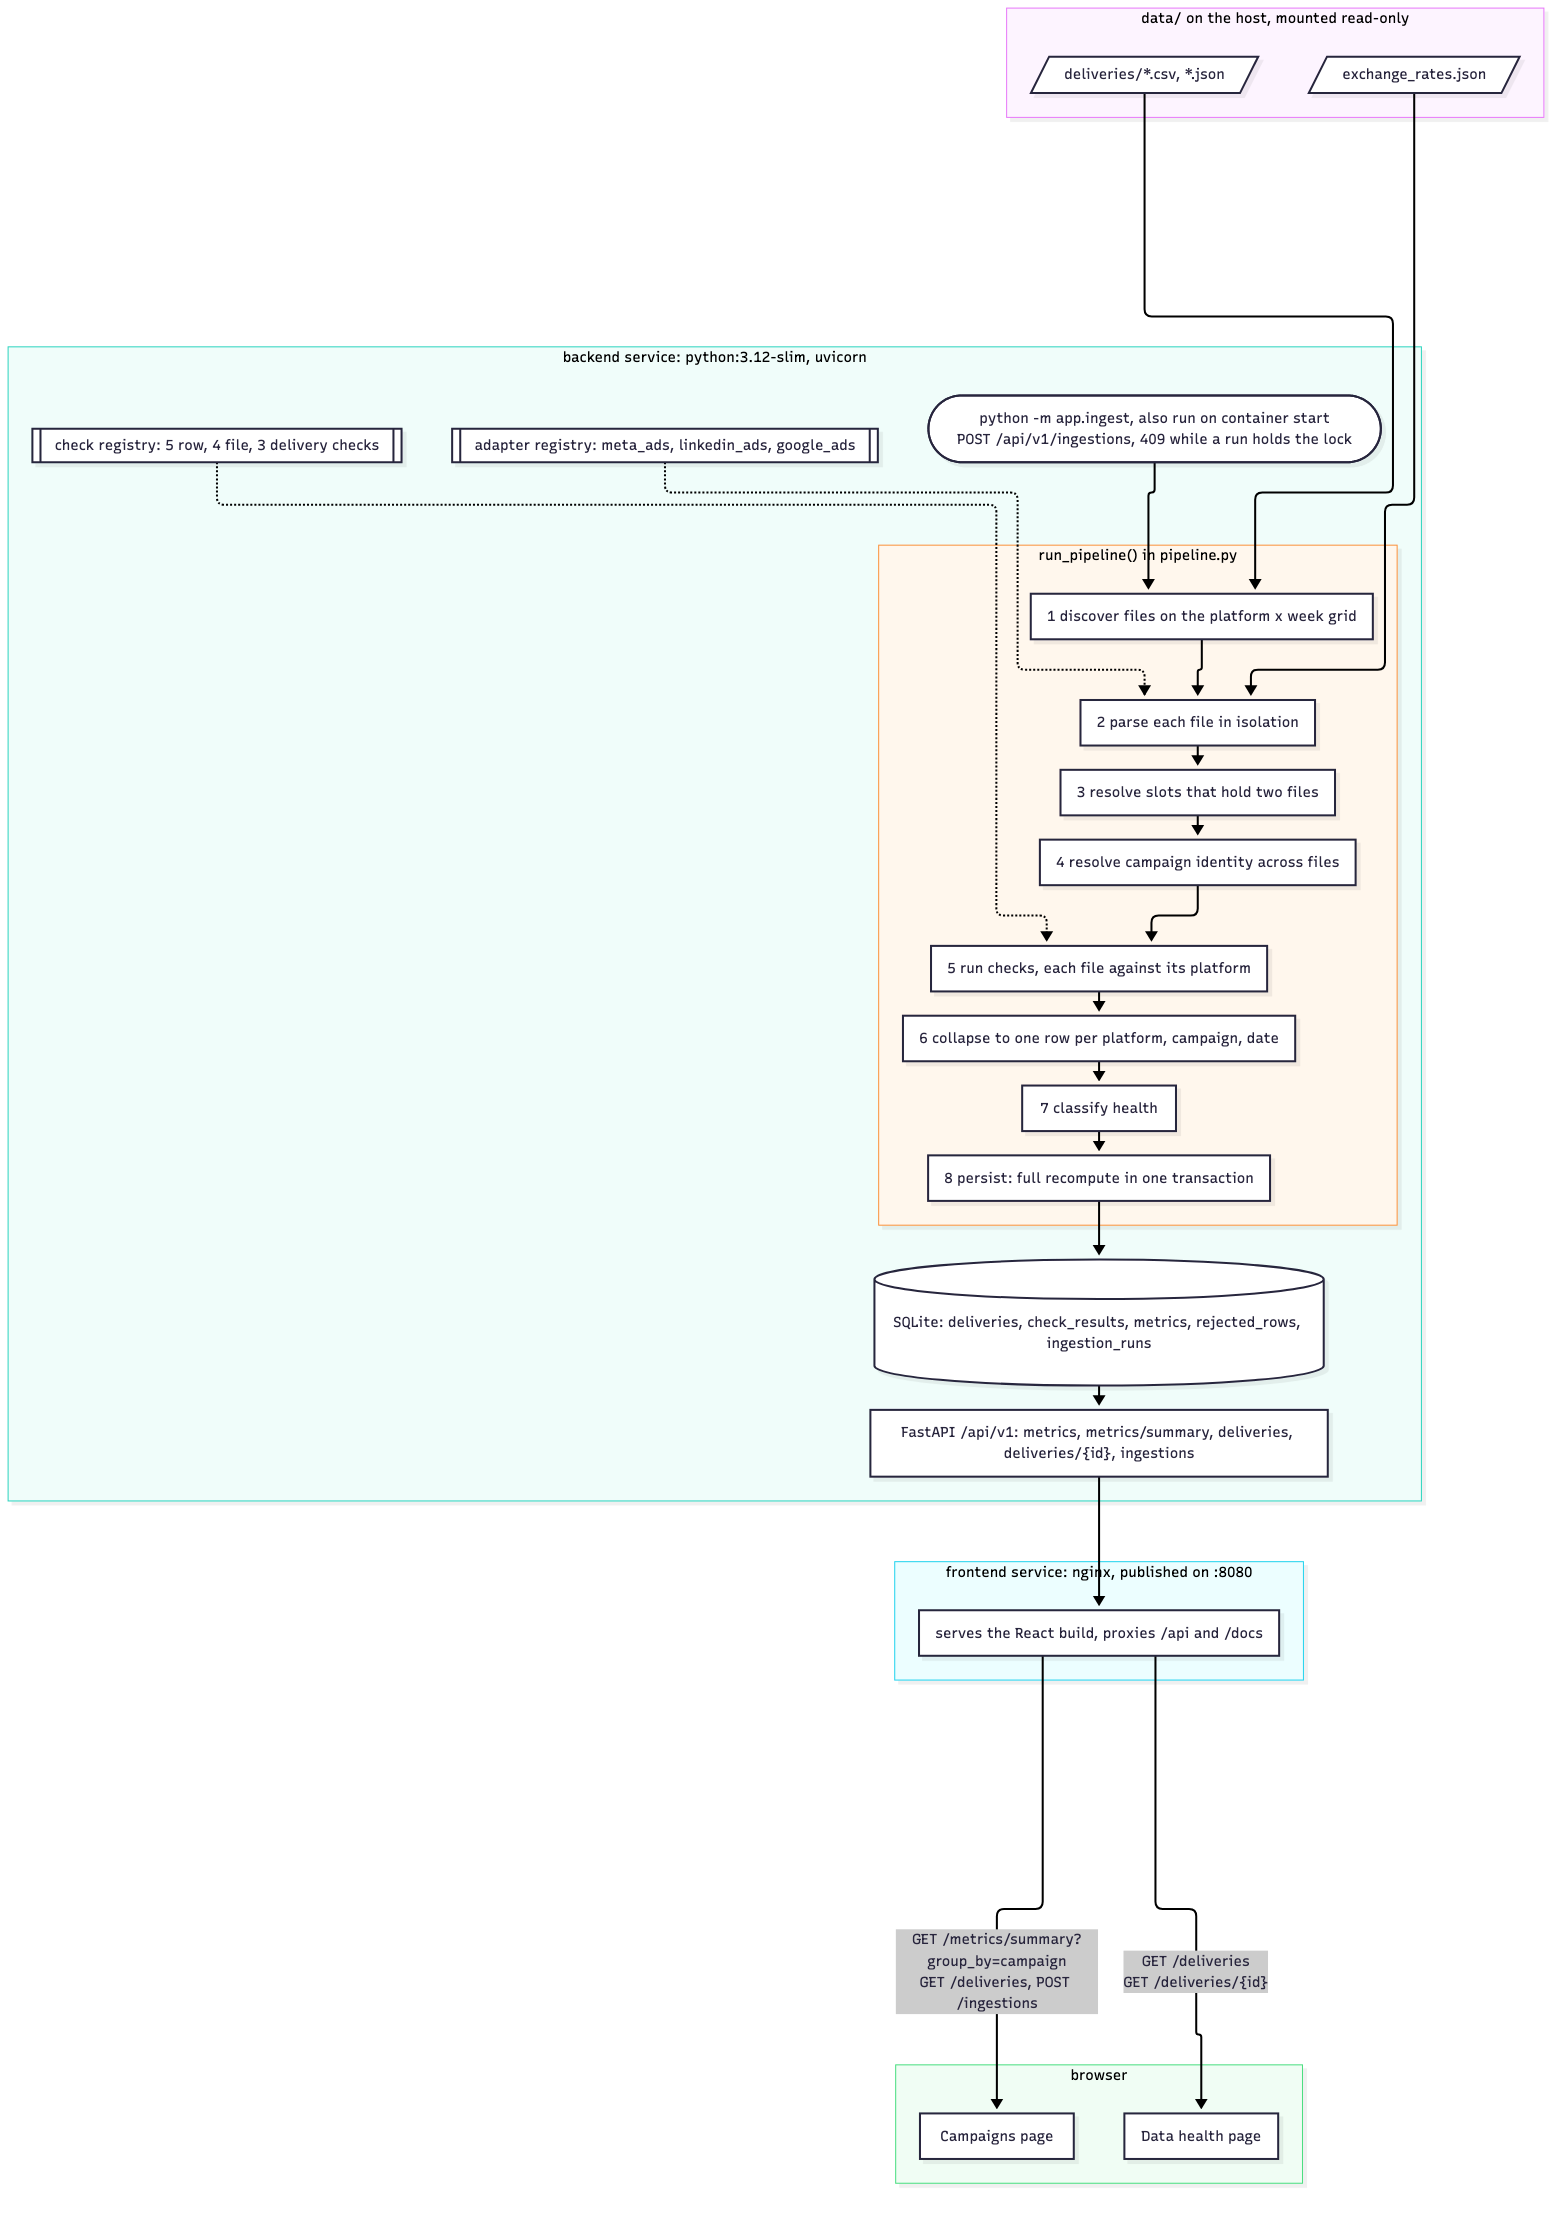
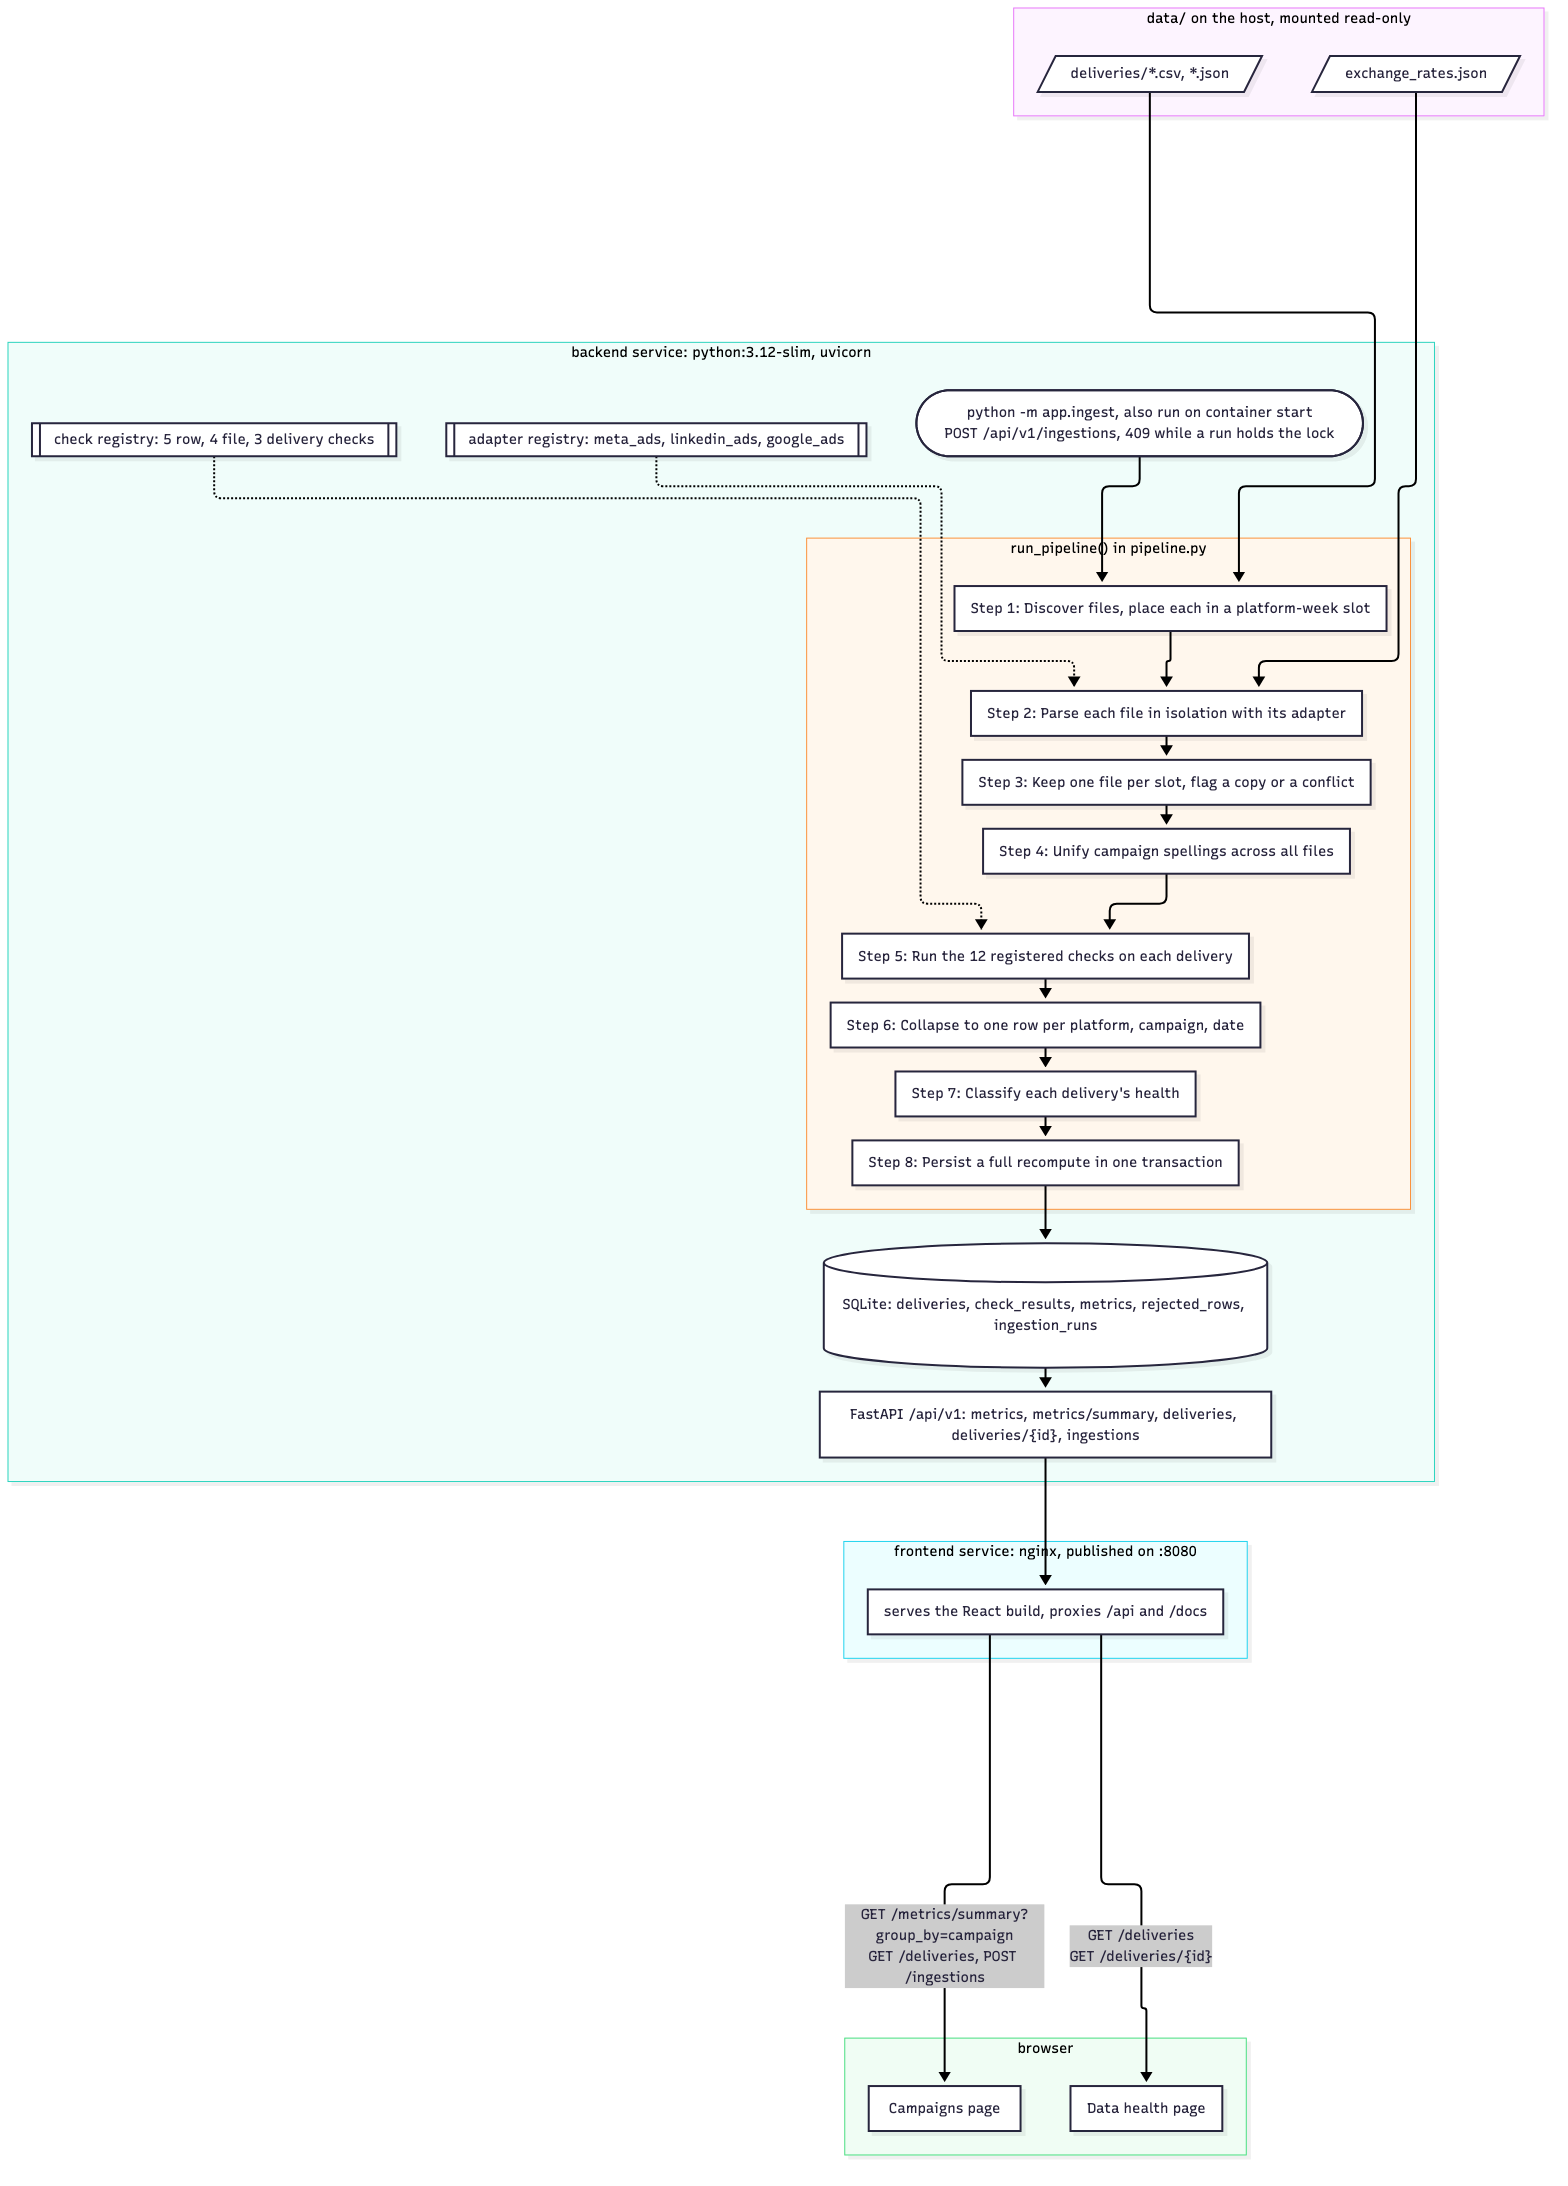
Stack the README screenshots, and finish the structure and diagram edits
The two screenshots were squeezed side by side in a table. They are now
stacked under the summary, each with a heading, a one-line description
and an img tag at width 900.

Also in this commit, from earlier uncommitted README work: the project
structure lists every source file with a short description, and the
pipeline steps in the Mermaid diagram read "Step 1:" to "Step 8:", with
docs/architecture.png re-rendered to match.

diff --git a/README.md b/README.md
@@ -4,9 +4,17 @@ Ingests weekly Meta, Google and LinkedIn deliveries into one daily USD dataset a
 Python 3.12, FastAPI, SQLAlchemy and SQLite; React, TypeScript and Vite; nginx and Docker Compose.\
 Run `docker compose up --build`, then open http://localhost:8080.
 
-| Campaigns | Data health |
-|---|---|
-| ![Campaigns page](docs/screenshots/campaigns.png) | ![Data health page](docs/screenshots/health.png) |
+### Campaigns
+
+Spend, impressions, clicks, CTR and CPC per campaign, with filters, totals and sortable columns.
+
+<img src="docs/screenshots/campaigns.png" width="900" alt="Campaigns page">
+
+### Data health
+
+Every delivery's pass, warn or fail status by platform and week, with the checks behind one delivery.
+
+<img src="docs/screenshots/health.png" width="900" alt="Data health page">
 
 ## Quick start with Docker
 
@@ -70,10 +78,10 @@ flowchart TB
         adapters[["adapter registry: meta_ads, linkedin_ads, google_ads"]]
         checks[["check registry: 5 row, 4 file, 3 delivery checks"]]
         subgraph pipeline["run_pipeline() in pipeline.py"]
-            p1["1 discover files on the platform x week grid"] --> p2["2 parse each file in isolation"]
-            p2 --> p3["3 resolve slots that hold two files"] --> p4["4 resolve campaign identity across files"]
-            p4 --> p5["5 run checks, each file against its platform"] --> p6["6 collapse to one row per platform, campaign, date"]
-            p6 --> p7["7 classify health"] --> p8["8 persist: full recompute in one transaction"]
+            p1["Step 1: Discover files, place each in a platform-week slot"] --> p2["Step 2: Parse each file in isolation with its adapter"]
+            p2 --> p3["Step 3: Keep one file per slot, flag a copy or a conflict"] --> p4["Step 4: Unify campaign spellings across all files"]
+            p4 --> p5["Step 5: Run the 12 registered checks on each delivery"] --> p6["Step 6: Collapse to one row per platform, campaign, date"]
+            p6 --> p7["Step 7: Classify each delivery's health"] --> p8["Step 8: Persist a full recompute in one transaction"]
         end
         db[("SQLite: deliveries, check_results, metrics, rejected_rows, ingestion_runs")]
         api["FastAPI /api/v1: metrics, metrics/summary, deliveries, deliveries/{id}, ingestions"]
@@ -108,31 +116,86 @@ The same diagram as an image: [docs/architecture.png](docs/architecture.png). On
 
 ```
 .
-├── README.md                  this file
-├── ASSIGNMENT.md              the brief
-├── docker-compose.yml         backend and frontend services
-├── backend/
-│   ├── app/                   pipeline, adapters, checks, health rules, API (Python package)
-│   ├── tests/                 six pytest tests on synthetic fixtures
-│   ├── Dockerfile             ingests on start, then serves the API on one worker
-│   ├── requirements.txt       pinned Python dependencies
-│   └── pytest.ini             test path settings
-├── data/
-│   ├── deliveries/            the 15 delivery files, as received
-│   └── exchange_rates.json    fixed rates to USD
-├── docs/
-│   ├── architecture.png       the architecture diagram, rendered
-│   └── screenshots/           the two pages
-└── frontend/
-    ├── src/                   React app: pages, components, API client, formatting
-    ├── public/                favicon
-    ├── Dockerfile             builds the app with node, serves it with nginx
-    ├── nginx.conf             static files, fallback to index.html, /api and /docs proxy
-    ├── index.html             page shell
-    ├── package.json           dependencies and scripts
-    ├── package-lock.json      locked dependency tree for npm ci
-    ├── tsconfig.json          TypeScript settings
-    └── vite.config.ts         dev server and its /api proxy
+├── backend/                            - Python backend
+│   ├── app/                            - the backend code
+│   │   ├── adapters/                   - one reader per platform
+│   │   │   ├── __init__.py             - list of platforms
+│   │   │   ├── base.py                 - shared row format
+│   │   │   ├── google_ads.py           - reads Google Ads CSV
+│   │   │   ├── linkedin_ads.py         - reads LinkedIn Ads JSON
+│   │   │   └── meta_ads.py             - reads Meta Ads CSV
+│   │   ├── api/                        - the REST API
+│   │   │   ├── app.py                  - creates the FastAPI app
+│   │   │   ├── deliveries.py           - delivery health endpoints
+│   │   │   ├── deps.py                 - database session per request
+│   │   │   ├── errors.py               - one error format
+│   │   │   ├── ingestions.py           - runs ingestion on request
+│   │   │   ├── metrics.py              - campaign metrics endpoints
+│   │   │   └── schemas.py              - API response shapes
+│   │   ├── checks/                     - the 12 quality checks
+│   │   │   ├── base.py                 - check inputs and outputs
+│   │   │   ├── delivery.py             - checks on whole deliveries
+│   │   │   ├── file.py                 - checks on whole files
+│   │   │   ├── registry.py             - list of all checks
+│   │   │   └── row.py                  - checks on single rows
+│   │   ├── config.py                   - paths, weeks, thresholds
+│   │   ├── db.py                       - database connection
+│   │   ├── discovery.py                - matches files to weeks
+│   │   ├── health.py                   - decides pass, warn or fail
+│   │   ├── ingest.py                   - command-line ingestion
+│   │   ├── models.py                   - database tables
+│   │   ├── money.py                    - currency conversion
+│   │   ├── normalize.py                - merges campaign spellings
+│   │   └── pipeline.py                 - runs ingestion end to end
+│   ├── tests/                          - automated tests
+│   │   └── test_pipeline.py            - the six tests
+│   ├── Dockerfile                      - backend container image
+│   ├── pytest.ini                      - test settings
+│   └── requirements.txt                - Python dependencies
+├── data/                               - input data
+│   ├── deliveries/                     - the 15 delivery files
+│   └── exchange_rates.json             - currency rates to USD
+├── docs/                               - documentation images
+│   ├── screenshots/                    - screenshots of both pages
+│   └── architecture.png                - architecture diagram
+├── frontend/                           - React app
+│   ├── public/                         - favicon
+│   ├── src/                            - the app code
+│   │   ├── api/                        - talks to the backend
+│   │   │   ├── client.ts               - sends API requests
+│   │   │   ├── types.ts                - API response types
+│   │   │   └── useApi.ts               - loads data for a page
+│   │   ├── components/                 - parts of the pages
+│   │   │   ├── CampaignTable.tsx       - sortable campaign table
+│   │   │   ├── DeliveryDetail.tsx      - one delivery's checks
+│   │   │   ├── Filters.tsx             - platform and date filters
+│   │   │   ├── HealthGrid.tsx          - status of every delivery
+│   │   │   ├── icons.tsx               - status icons
+│   │   │   ├── Legend.tsx              - explains the status colours
+│   │   │   ├── RunIngestionButton.tsx  - the Run ingestion button
+│   │   │   └── TotalsBar.tsx           - totals above the table
+│   │   ├── lib/                        - helper functions
+│   │   │   ├── excluded.ts             - reads excluded rows
+│   │   │   ├── format.ts               - formats numbers and money
+│   │   │   ├── labels.ts               - display names
+│   │   │   └── slots.ts                - groups deliveries by week
+│   │   ├── pages/                      - the two pages
+│   │   │   ├── CampaignsPage.tsx       - Campaigns page
+│   │   │   └── HealthPage.tsx          - Data health page
+│   │   ├── App.tsx                     - header and page routes
+│   │   ├── main.tsx                    - app entry point
+│   │   ├── styles.css                  - styles
+│   │   └── tokens.css                  - colours, sizes and fonts
+│   ├── Dockerfile                      - builds and serves the app
+│   ├── index.html                      - HTML page
+│   ├── nginx.conf                      - web server and API proxy
+│   ├── package-lock.json               - exact dependency versions
+│   ├── package.json                    - dependencies and scripts
+│   ├── tsconfig.json                   - TypeScript settings
+│   └── vite.config.ts                  - dev server settings
+├── ASSIGNMENT.md                       - the assignment brief
+├── docker-compose.yml                  - runs backend and frontend
+└── README.md                           - this file
 ```
 
 How the parts connect:
